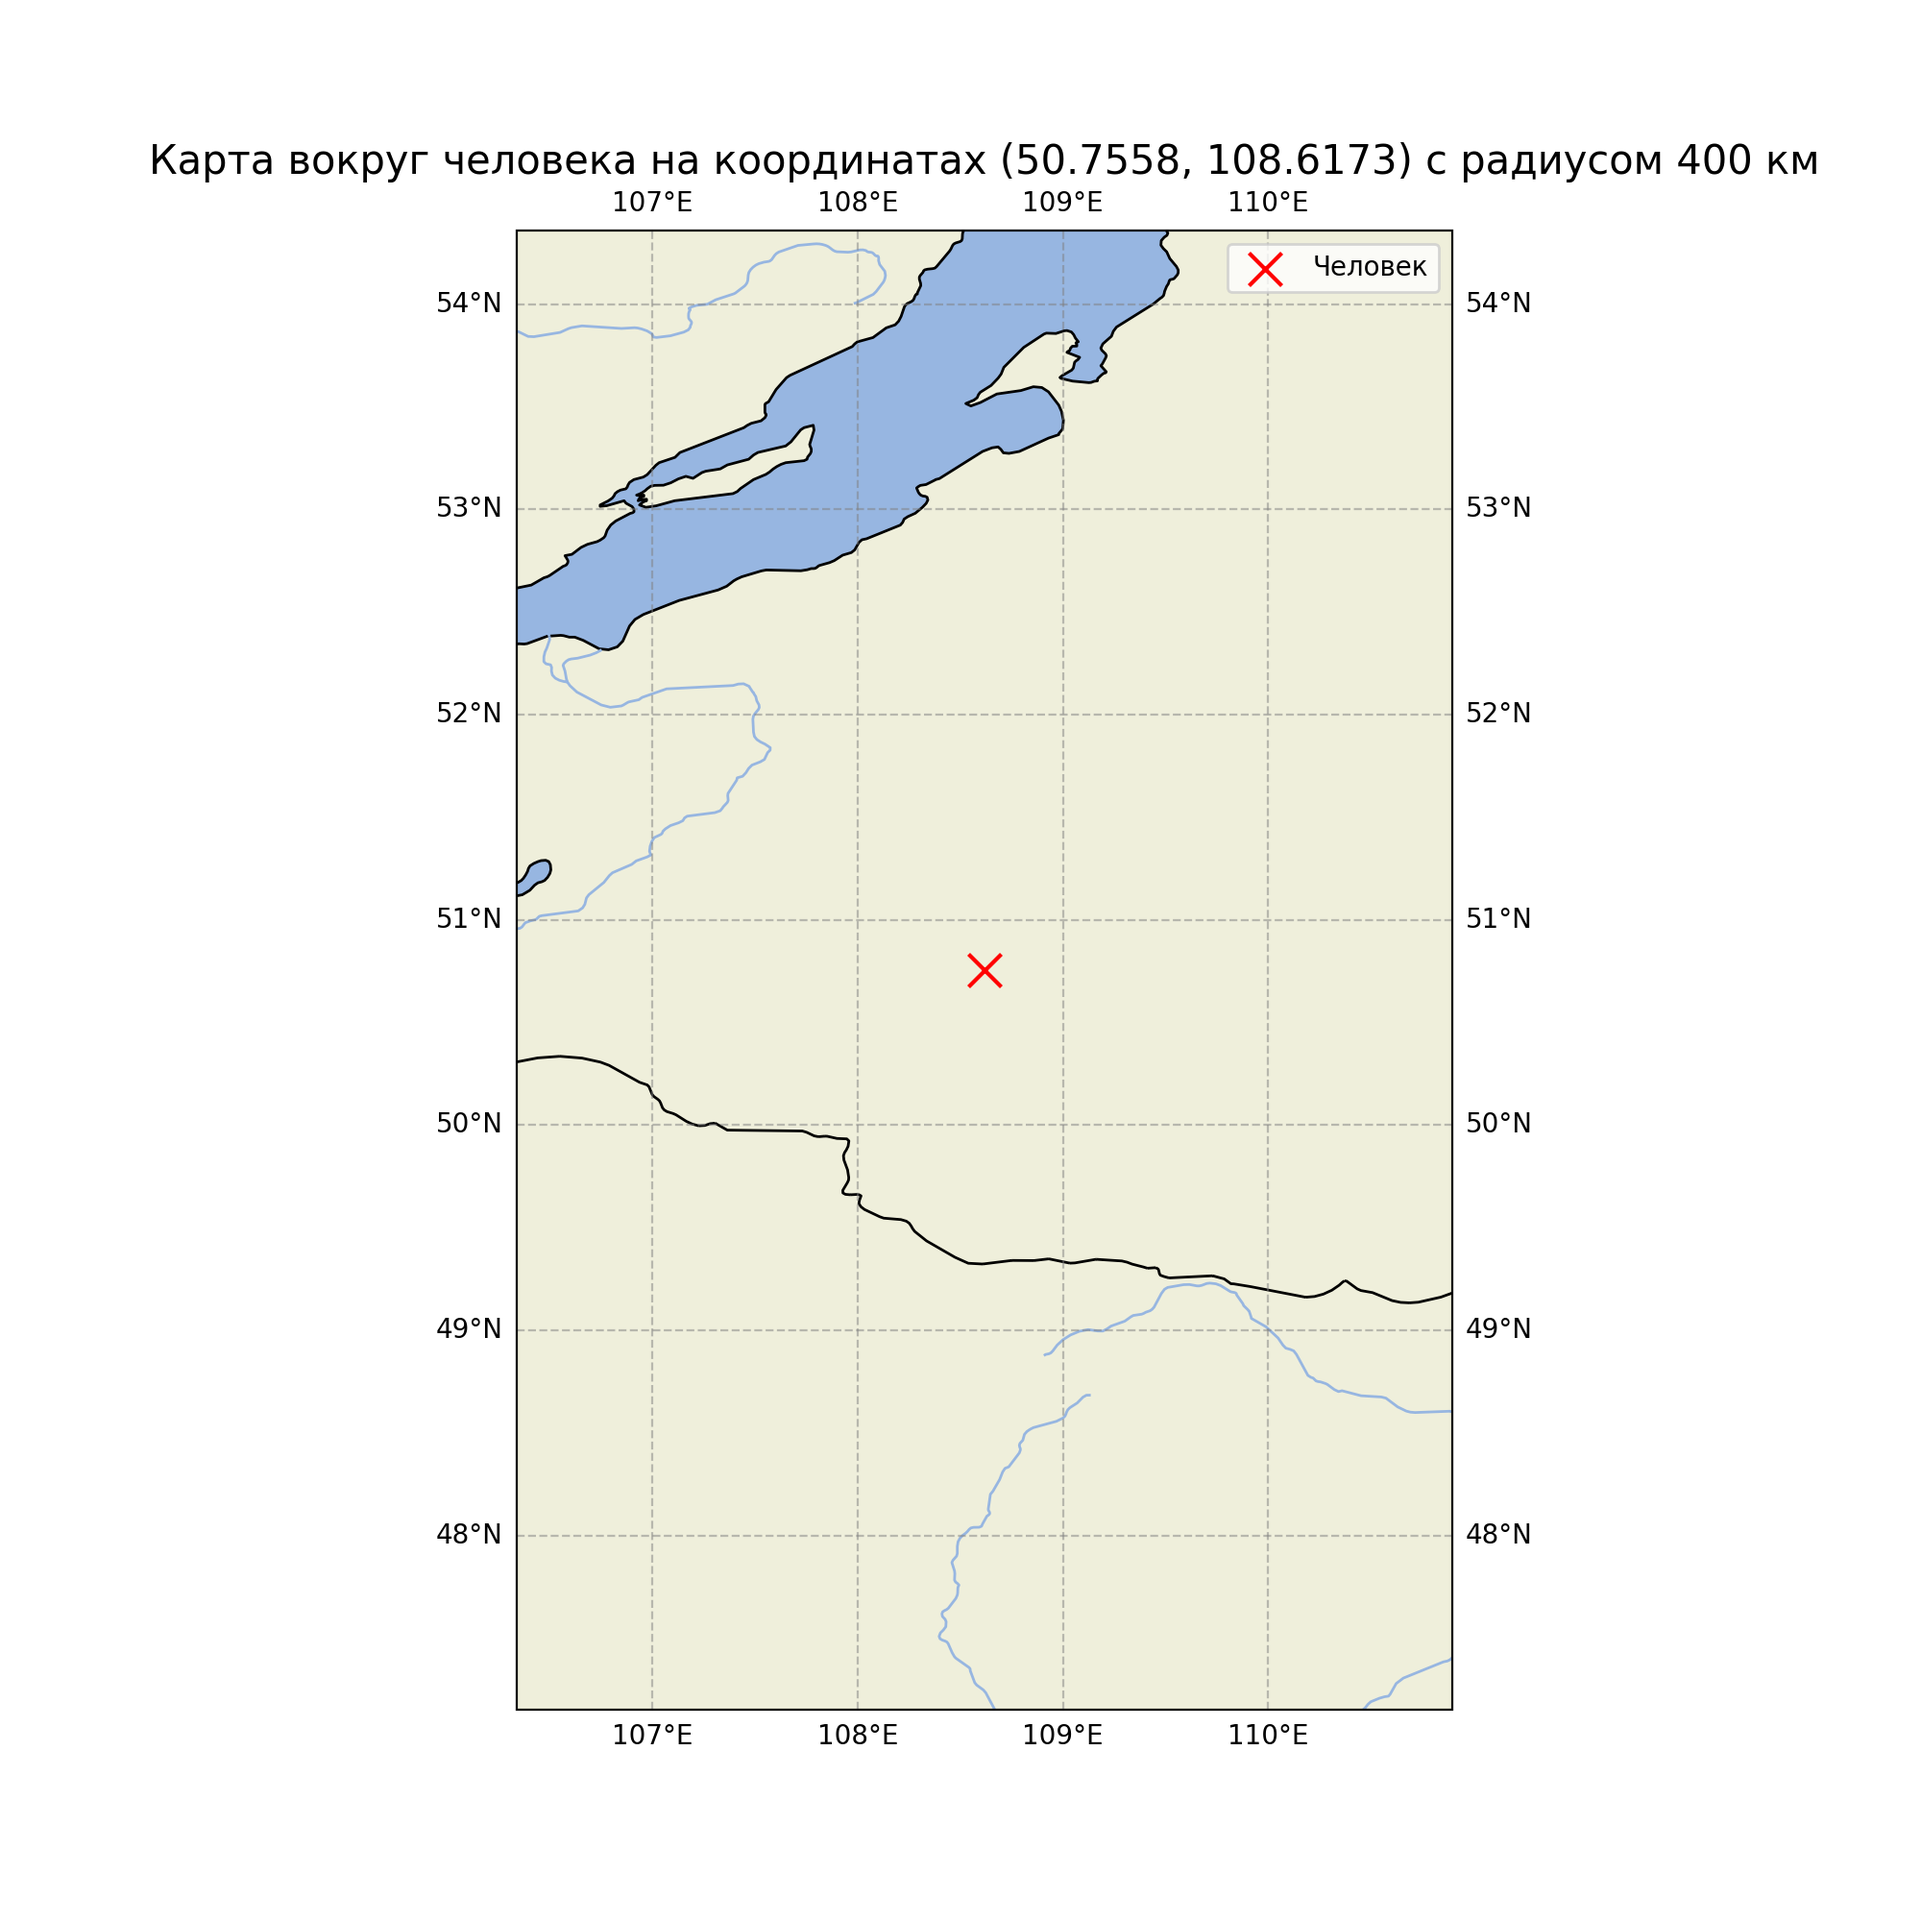
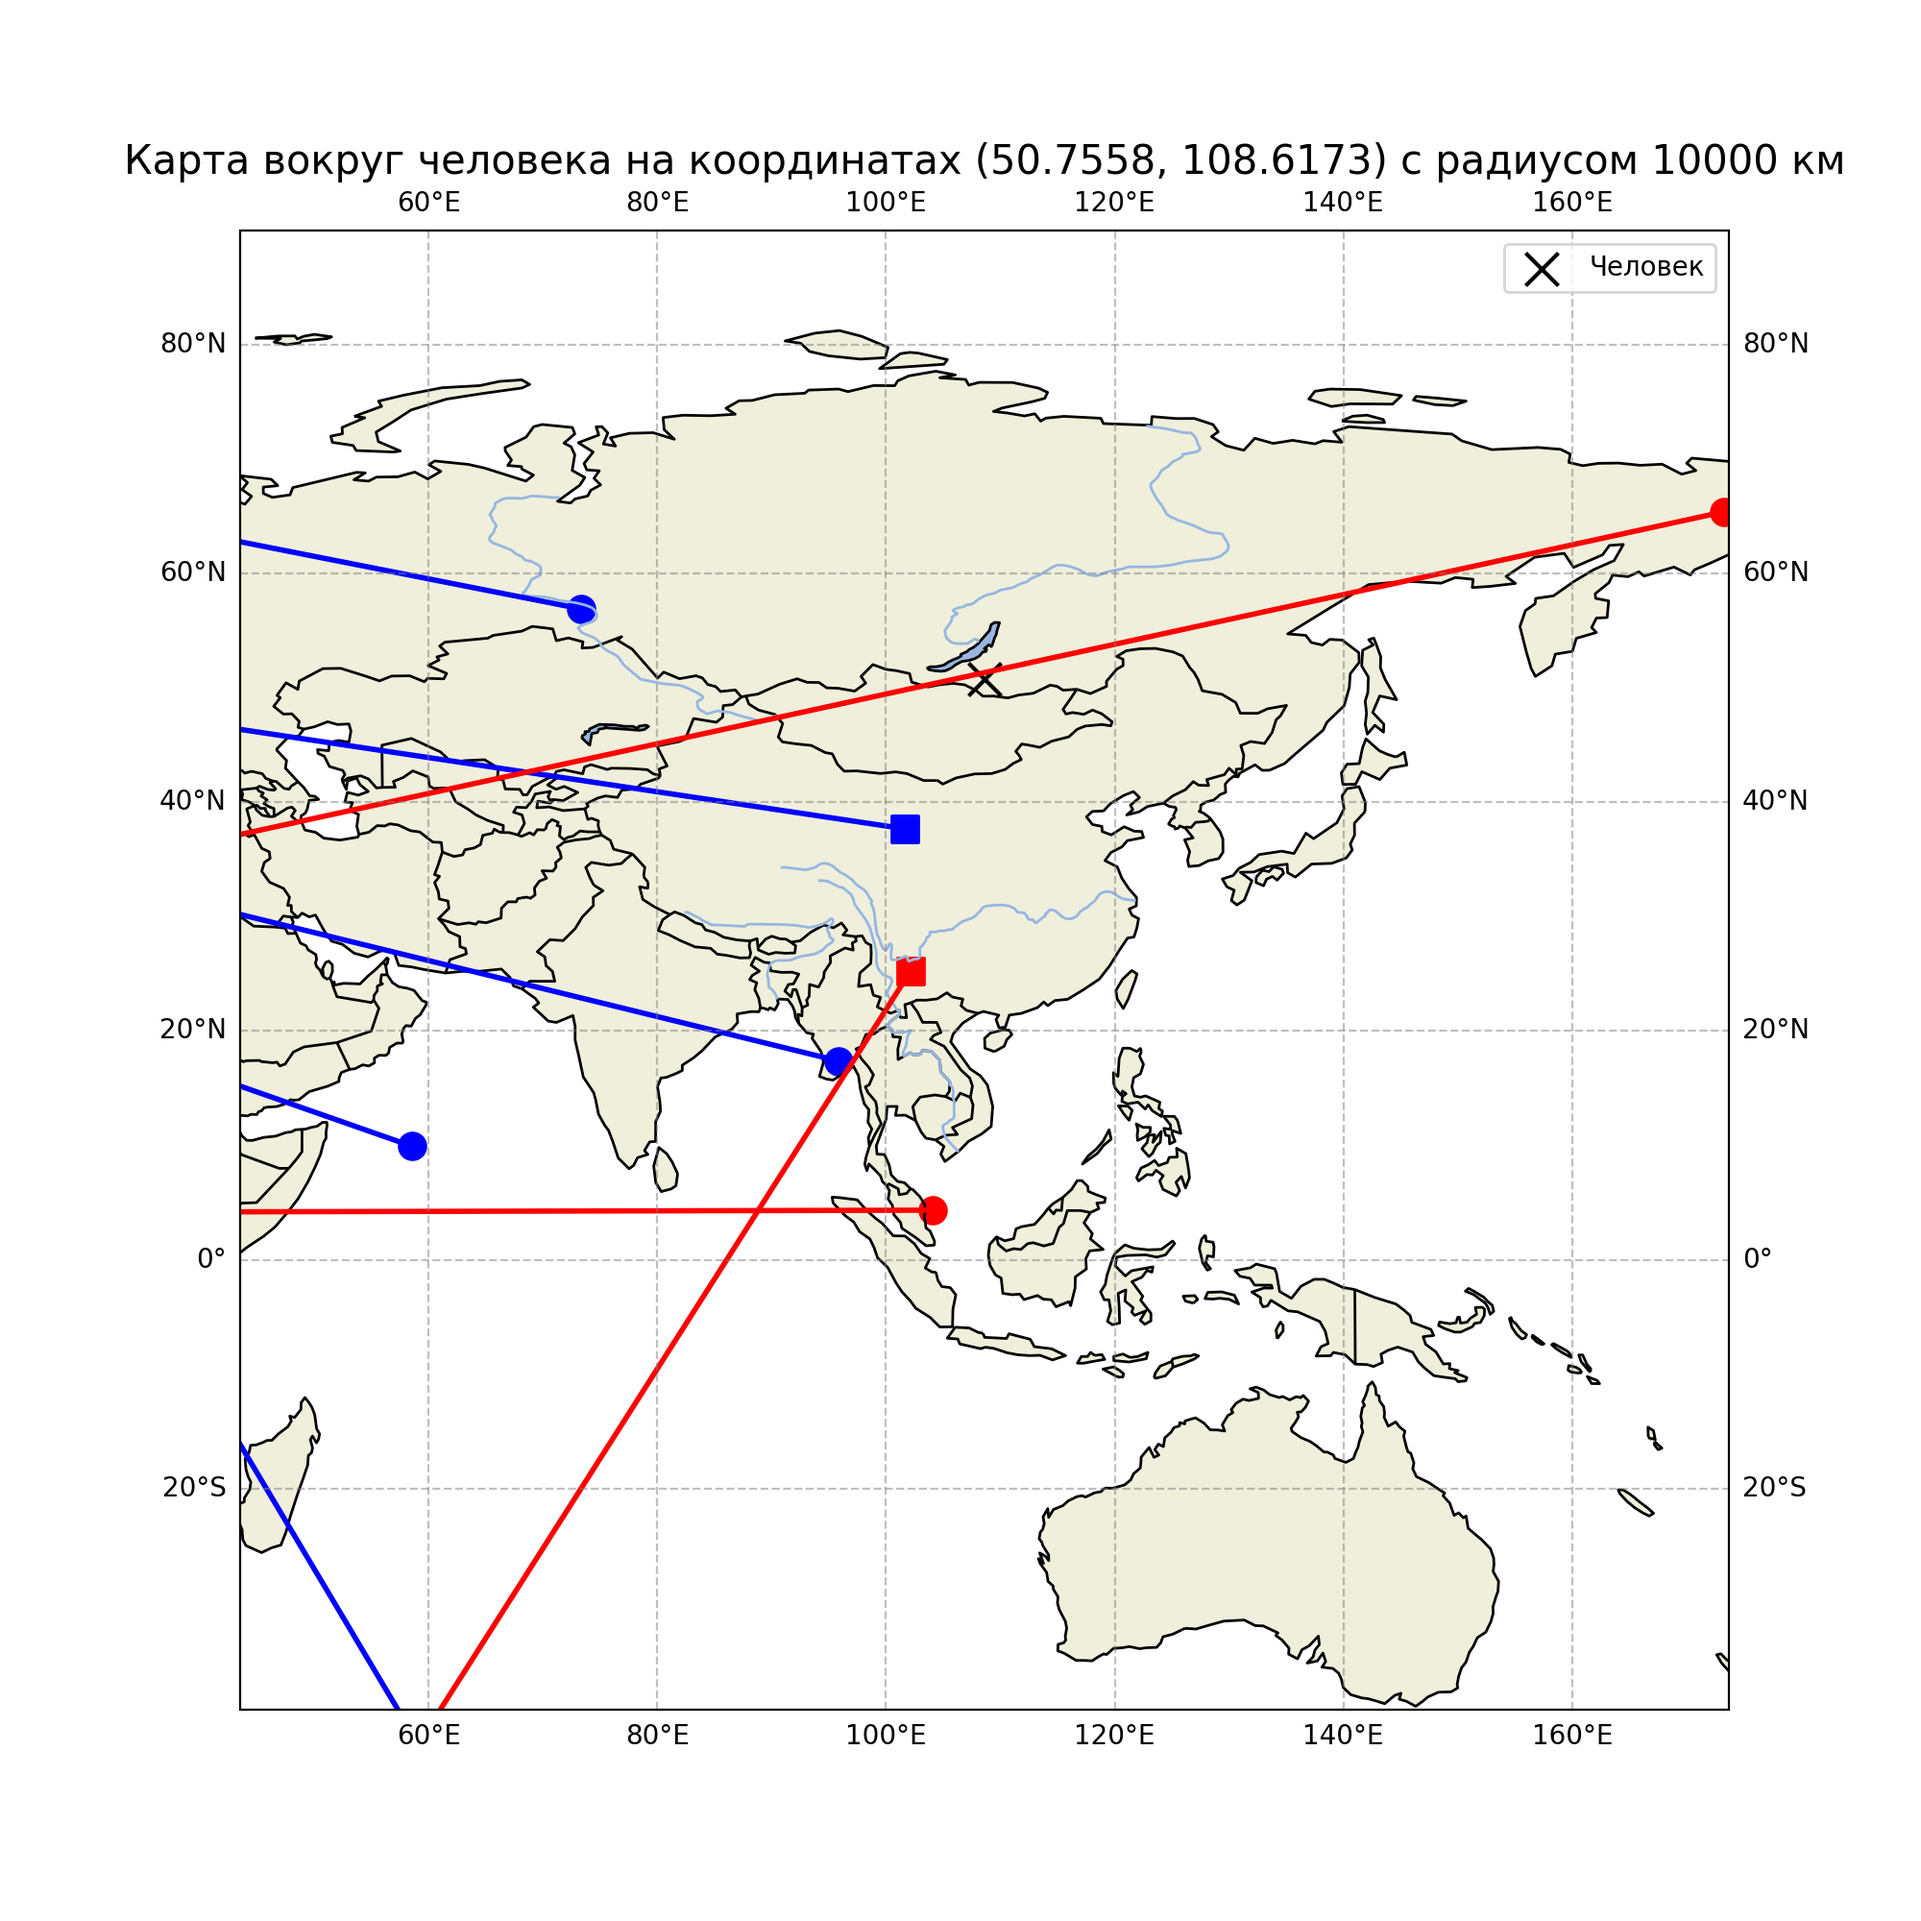
создал программу, которая отрисовывает трейсер

diff --git a/solver/test/complete edition.py b/solver/test/complete edition.py
@@ -1,0 +1,80 @@
+import numpy as np
+import matplotlib.pyplot as plt
+import cartopy.crs as ccrs
+import cartopy.feature as cfeature
+
+
+# Функция для генерации случайных точек
+def generate_random_points(num_points=100):
+    latitudes = np.random.uniform(-90, 90, num_points)
+    longitudes = np.random.uniform(-180, 180, num_points)
+    return list(zip(latitudes, longitudes))
+
+# Вводим координаты человека и радиус видимости
+person_location = (50.7558, 108.6173)  # Пример: Москва (широта, долгота)
+radius_km = 10000  # Радиус видимости в километрах
+
+# Генерируем случайные точки
+np.random.seed(32)  # Для воспроизводимости
+satellites_start = generate_random_points(10)
+satellites_end = generate_random_points(10)
+debris_start = generate_random_points(10)
+debris_end = generate_random_points(10)
+
+
+# Создаём карту
+fig = plt.figure(figsize=(10, 10), dpi=200)  # Увеличиваем dpi для четкости
+ax = plt.axes(projection=ccrs.PlateCarree())
+
+# Устанавливаем границы карты
+# Вычисляем ширину и долготу эквивалентную радиусу
+lat_per_km = 1 / 111.0  # 1 градус широты в км
+long_per_km = lat_per_km * np.cos(np.radians(person_location[0]))  # 1 градус долготы в км
+
+# Расчёт buffer в градусах
+buffer_lat = radius_km * lat_per_km
+buffer_long = radius_km * long_per_km
+
+ax.set_extent([
+    person_location[1] - buffer_long, person_location[1] + buffer_long,
+    person_location[0] - buffer_lat, person_location[0] + buffer_lat],
+    crs=ccrs.PlateCarree()
+)
+
+# Добавляем основной фон карты
+ax.add_feature(cfeature.BORDERS)
+ax.add_feature(cfeature.COASTLINE)
+ax.add_feature(cfeature.LAND)
+ax.add_feature(cfeature.LAKES, edgecolor='black')
+ax.add_feature(cfeature.RIVERS)
+
+
+# Функция для отрисовки линий
+def plot_lines(start_coords, end_coords, color, label):
+    for start, end in zip(start_coords, end_coords):
+        start_lat, start_lon = start
+        end_lat, end_lon = end
+        ax.plot([start_lon, end_lon], [start_lat, end_lat], color=color, linewidth=2)
+        ax.scatter(start_lon, start_lat, color=color, marker='o', s=100, transform=ccrs.PlateCarree())
+        ax.scatter(end_lon, end_lat, color=color, marker='s', s=100, transform=ccrs.PlateCarree())
+
+# Отображаем линии для спутников
+plot_lines(satellites_start, satellites_end, 'blue', 'Спутники')
+
+# Отображаем линии для мусора
+plot_lines(debris_start, debris_end, 'red', 'Мусор')
+
+# Отображаем местоположение человека
+ax.scatter(person_location[1], person_location[0], color='black', marker='x', s=150, label='Человек', transform=ccrs.PlateCarree())
+
+# Добавляем сетку (широта и долгота)
+gridlines = ax.gridlines(draw_labels=True, linestyle='--', color='gray', alpha=0.5)
+gridlines.xlabels_top = False
+gridlines.ylabels_right = False
+
+# Устанавливаем аспект (чтобы карта была квадратной)
+ax.set_aspect('equal', adjustable='datalim')
+# Заголовок и легенда
+ax.set_title(f'Карта вокруг человека на координатах {person_location} с радиусом {radius_km} км', fontsize=15)
+plt.legend(loc='upper right')
+plt.savefig('hopeful')

diff --git a/solver/test/more_lists.py b/solver/test/more_lists.py
@@ -1,0 +1,53 @@
+import numpy as np
+import matplotlib.pyplot as plt
+import cartopy.crs as ccrs
+import cartopy.feature as cfeature
+
+# Списки спутников и мусора (начала и конца)
+satellites_start = [(55.7558, 37.6173), (34.0522, -118.2437)]  # Начальные координаты спутников
+satellites_end = [(48.8566, 2.3522), (51.5074, -0.1278)]        # Конечные координаты спутников
+debris_start = [(42.3601, -71.0589), (40.7128, -74.0060)]      # Начальные координаты мусора
+debris_end = [(55.9533, -3.1883), (35.6895, 139.6917)]         # Конечные координаты мусора
+
+# Установка границ карты
+extent = [-180, 180, -90, 90]
+
+# Создаем карту
+fig = plt.figure(figsize=(10, 10), dpi=200)  
+ax = plt.axes(projection=ccrs.PlateCarree())
+
+# Устанавливаем границы карты
+ax.set_extent(extent, crs=ccrs.PlateCarree())
+
+# Добавляем основной фон карты
+ax.add_feature(cfeature.BORDERS)
+ax.add_feature(cfeature.COASTLINE)
+ax.add_feature(cfeature.LAND)
+ax.add_feature(cfeature.LAKES, edgecolor='black')
+ax.add_feature(cfeature.RIVERS)
+
+# Функция для отрисовки линий
+def plot_lines(start_coords, end_coords, color, label):
+    for start, end in zip(start_coords, end_coords):
+        start_lat, start_lon = start
+        end_lat, end_lon = end
+        ax.plot([start_lon, end_lon], [start_lat, end_lat], color=color, linewidth=2)
+        ax.scatter(start_lon, start_lat, color=color, marker='o', s=100, transform=ccrs.PlateCarree())
+        ax.scatter(end_lon, end_lat, color=color, marker='s', s=100, transform=ccrs.PlateCarree())
+
+# Отображаем линии для спутников
+plot_lines(satellites_start, satellites_end, 'blue', 'Спутники')
+
+# Отображаем линии для мусора
+plot_lines(debris_start, debris_end, 'red', 'Мусор')
+
+# Добавляем сетку (широта и долгота)
+gridlines = ax.gridlines(draw_labels=True, linestyle='--', color='gray', alpha=0.5)
+gridlines.xlabels_top = False
+gridlines.ylabels_right = False
+
+# Заголовок и легенда
+ax.set_title('Карта спутников и мусора с перемещениями', fontsize=15)
+
+# Показать карту
+plt.savefig('more_lists')
